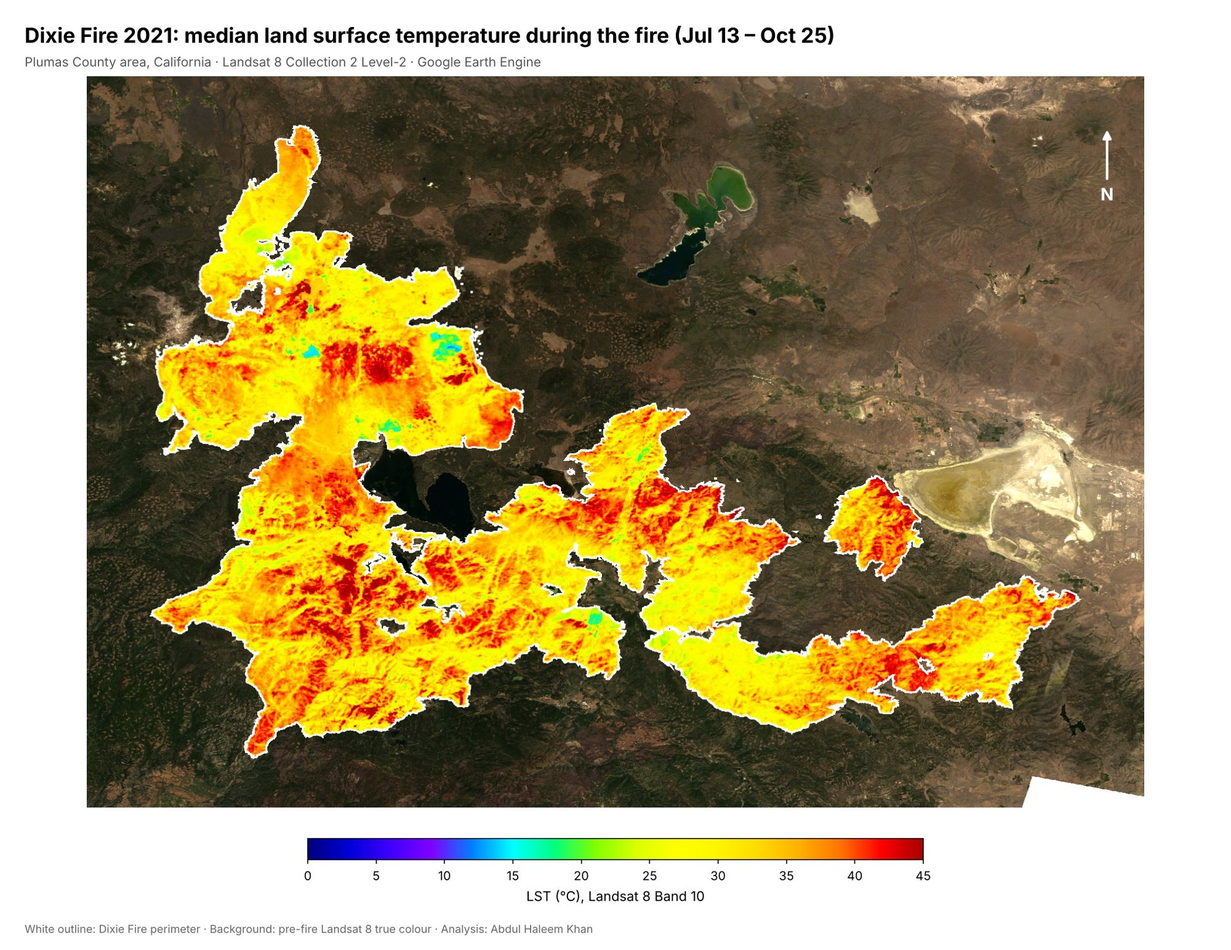
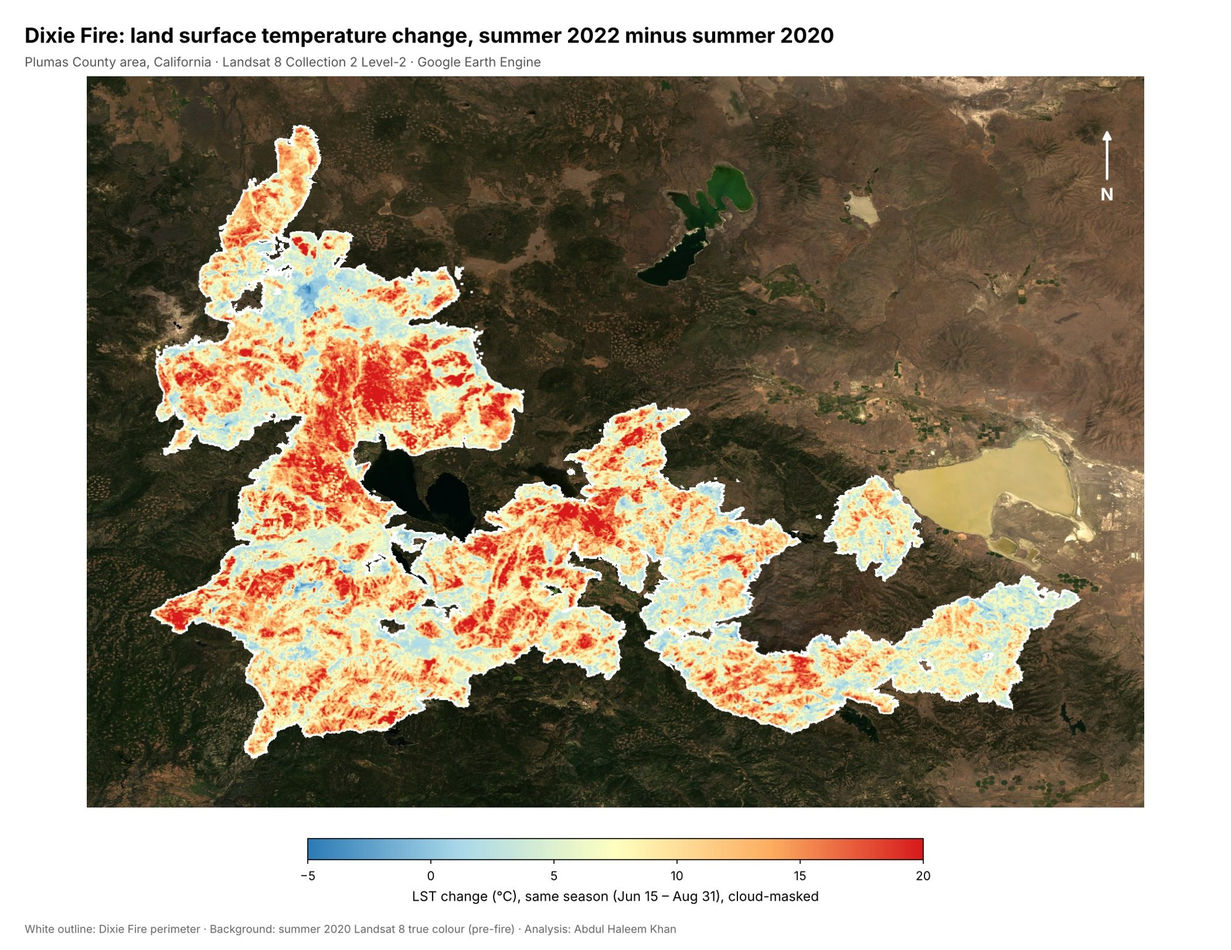
Dixie Fire v2: corrected method, new maps, chart and results
Claude-Session: https://claude.ai/code/session_019ix2VwBFEfSriveM5Esb5E

diff --git a/projects/gee-dixie-fire-lst-ndvi.html b/projects/gee-dixie-fire-lst-ndvi.html
@@ -1,6 +1,6 @@
 <!DOCTYPE html><html lang="en"><head><meta charset="utf-8"><meta name="viewport" content="width=device-width,initial-scale=1">
-<title>Dixie Fire 2021: Land Surface Temperature &amp; NDVI in Google Earth Engine | Abdul Haleem Khan</title><meta name="description" content="Google Earth Engine app that tracks the 2021 Dixie Fire, California&#x27;s largest single wildfire, through Landsat 8 land surface temperature and NDVI before, during and after the fire, with legends, time-series charts and GeoTIFF exports.">
-<meta property="og:title" content="Dixie Fire 2021: Land Surface Temperature &amp; NDVI in Google Earth Engine | Abdul Haleem Khan"><meta property="og:description" content="Google Earth Engine app that tracks the 2021 Dixie Fire, California&#x27;s largest single wildfire, through Landsat 8 land surface temperature and NDVI before, during and after the fire, with legends, time-series charts and GeoTIFF exports."><meta property="og:image" content="https://abdul-haleem-khan-rs-gis.github.io/Geospatial_Portfolio/assets/maps/gee-dixie-fire-lst-ndvi-1.jpg"><meta property="og:type" content="website">
+<title>Dixie Fire 2021: Land Surface Temperature &amp; NDVI in Google Earth Engine | Abdul Haleem Khan</title><meta name="description" content="Google Earth Engine analysis of the 2021 Dixie Fire, California&#x27;s largest single wildfire: cloud-masked Landsat 8 land surface temperature and NDVI, compared season to season against an unburned control ring, showing the burn scar ran about 8 °C hotter the next summer.">
+<meta property="og:title" content="Dixie Fire 2021: Land Surface Temperature &amp; NDVI in Google Earth Engine | Abdul Haleem Khan"><meta property="og:description" content="Google Earth Engine analysis of the 2021 Dixie Fire, California&#x27;s largest single wildfire: cloud-masked Landsat 8 land surface temperature and NDVI, compared season to season against an unburned control ring, showing the burn scar ran about 8 °C hotter the next summer."><meta property="og:image" content="https://abdul-haleem-khan-rs-gis.github.io/Geospatial_Portfolio/assets/maps/gee-dixie-fire-lst-ndvi-1.jpg"><meta property="og:type" content="website">
 <link rel="preconnect" href="https://fonts.googleapis.com"><link rel="preconnect" href="https://fonts.gstatic.com" crossorigin>
 <link href="https://fonts.googleapis.com/css2?family=Fraunces:opsz,wght@9..144,500;9..144,600&family=Inter:wght@400;500;600&family=JetBrains+Mono:wght@400;500&display=swap" rel="stylesheet">
 <link rel="stylesheet" href="../assets/site.css"></head><body>
@@ -9,13 +9,13 @@
 <main class="wrap">
 <div class="crumb"><a href="../index.html#work">← All work</a></div>
 <div class="phero"><span class="mono">Remote Sensing &amp; Earth Observation</span><h1 style="font-size:clamp(32px,4.5vw,52px)">Dixie Fire 2021: Land Surface Temperature &amp; NDVI in Google Earth Engine</h1>
-<p class="lead">Google Earth Engine app that tracks the 2021 Dixie Fire, California&#x27;s largest single wildfire, through Landsat 8 land surface temperature and NDVI before, during and after the fire, with legends, time-series charts and GeoTIFF exports.</p>
+<p class="lead">Google Earth Engine analysis of the 2021 Dixie Fire, California&#x27;s largest single wildfire: cloud-masked Landsat 8 land surface temperature and NDVI, compared season to season against an unburned control ring, showing the burn scar ran about 8 °C hotter the next summer.</p>
 <dl class="facts"><div><dt class="mono">Location</dt><dd>Dixie Fire, Plumas County area, California, USA</dd></div><div><dt class="mono">Year</dt><dd>2021 fire season</dd></div><div><dt class="mono">Client</dt><dd>Independent Earth Engine analysis</dd></div><div><dt class="mono">Tools</dt><dd>Google Earth Engine (JavaScript), Landsat 8 C2 L2, LST, NDVI, Time series</dd></div></dl>
-<figure class="mapfull"><a href="../assets/maps/gee-dixie-fire-lst-ndvi-1.jpg"><img src="../assets/maps/gee-dixie-fire-lst-ndvi-1.jpg" alt="Median land surface temperature inside the Dixie Fire perimeter during the fire (Landsat 8 Band 10)" width="2000" height="1543"></a><figcaption><span class="mono">Fig. 1</span> Median land surface temperature inside the Dixie Fire perimeter during the fire (Landsat 8 Band 10)</figcaption></figure><figure class="mapfull"><a href="../assets/maps/gee-dixie-fire-lst-ndvi-2.jpg"><img src="../assets/maps/gee-dixie-fire-lst-ndvi-2.jpg" alt="Temperature change: during-fire minus pre-fire median LST" width="2000" height="1543"></a><figcaption><span class="mono">Fig. 2</span> Temperature change: during-fire minus pre-fire median LST</figcaption></figure><figure class="mapfull"><a href="../assets/maps/gee-dixie-fire-lst-ndvi-3.jpg"><img src="../assets/maps/gee-dixie-fire-lst-ndvi-3.jpg" alt="Post-fire NDVI inside the perimeter (Oct 25 – Nov 30, 2021)" width="2000" height="1543"></a><figcaption><span class="mono">Fig. 3</span> Post-fire NDVI inside the perimeter (Oct 25 – Nov 30, 2021)</figcaption></figure><figure class="mapfull"><a href="../assets/maps/gee-dixie-fire-lst-ndvi-4.jpg"><img src="../assets/maps/gee-dixie-fire-lst-ndvi-4.jpg" alt="The Earth Engine app: layers, legends and the LST time-series chart in the Code Editor" width="1907" height="867"></a><figcaption><span class="mono">Fig. 4</span> The Earth Engine app: layers, legends and the LST time-series chart in the Code Editor</figcaption></figure></div>
-<div class="pbody"><div><h2>Challenge</h2><p>Measure how a very large wildfire changed the land surface, from heat to vegetation, using only free satellite data. The aim was to run everything in the cloud, over a 3,894 km² burn perimeter, without downloading a single scene.</p>
-<h2>Approach</h2><ol><li>Filtered the Landsat 8 collection to the fire perimeter and the June–November 2021 window</li><li>Converted thermal Band 10 (ST_B10) to land surface temperature in °C with the Collection 2 scale factors (× 0.00341802 + 149.0 − 273.15)</li><li>Calculated NDVI from Band 5 (NIR) and Band 4 (red) for every scene</li><li>Split the collection at the ignition date (13 July) and the containment date (25 October) and took median composites for each period</li><li>Subtracted pre-fire from during-fire LST to map temperature change</li><li>Built the app interface: title, layer list, LST and temperature-difference legends and an information panel</li><li>Charted mean LST and NDVI over the perimeter for every scene, and set up 30 m GeoTIFF exports to Google Drive for each LST layer and the difference map</li></ol>
-<h2>Results</h2><ul class="find"><li>Mean NDVI inside the perimeter fell from 0.24 before the fire to 0.09 after it, a drop of about 63%, showing extensive vegetation loss</li><li>The time-series chart tracks how surface temperature over the burn area changed through the fire season</li><li>Median LST over the perimeter: 35.1 °C before the fire and 33.6 °C during it. Smoke and cloud in the during-fire scenes lower the thermal signal, so much of the difference map shows cooling</li><li>Next step: apply the cloud-mask function (already written in the script) to every scene, and add a smoke filter, to sharpen the temperature-change map</li></ul></div>
-<aside class="side"><p style="margin:0 0 10px"><a class="btn" href="https://code.earthengine.google.com/5fbd35d270e92e2c852970e16b9c2db1">Open in the Earth Engine Code Editor</a></p><p style="margin:0 0 10px"><a class="btn" href="https://github.com/Abdul-Haleem-Khan-RS-GIS/spatial-analysis-showcase/blob/main/01-Remote-Sensing/gee-dixie-fire-lst-ndvi/code/dixie_fire_lst_ndvi.js">View the script on GitHub</a></p><hr><span class="mono">Data used</span><ul class="dl"><li>Landsat 8 Collection 2 Level-2 surface reflectance and surface temperature (LANDSAT/LC08/C02/T1_L2), June–November 2021</li><li>Dixie Fire perimeter uploaded as an Earth Engine asset (3,894 km²)</li><li>Periods: pre-fire Jun 1 – Jul 13 (7 scenes), during-fire Jul 13 – Oct 25 (16 scenes), post-fire Oct 25 – Nov 30, 2021 (6 scenes)</li></ul><hr><span class="mono">Files & data</span><p style="margin:8px 0 0"><a class="btn" href="https://github.com/Abdul-Haleem-Khan-RS-GIS/spatial-analysis-showcase/tree/main/01-Remote-Sensing/gee-dixie-fire-lst-ndvi">Open on GitHub</a></p><ul><li>code/dixie_fire_lst_ndvi.js (full Earth Engine script)</li><li>Four maps (LST, temperature change, NDVI, app view)</li></ul></aside></div>
+<figure class="mapfull"><a href="../assets/maps/gee-dixie-fire-lst-ndvi-1.jpg"><img src="../assets/maps/gee-dixie-fire-lst-ndvi-1.jpg" alt="Land surface temperature change in the same season, summer 2022 minus summer 2020 (cloud-masked)" width="2000" height="1543"></a><figcaption><span class="mono">Fig. 1</span> Land surface temperature change in the same season, summer 2022 minus summer 2020 (cloud-masked)</figcaption></figure><figure class="mapfull"><a href="../assets/maps/gee-dixie-fire-lst-ndvi-2.jpg"><img src="../assets/maps/gee-dixie-fire-lst-ndvi-2.jpg" alt="Summer means inside the burn perimeter vs the unburned 5 km ring, 2019, 2020 and 2022" width="2000" height="886"></a><figcaption><span class="mono">Fig. 2</span> Summer means inside the burn perimeter vs the unburned 5 km ring, 2019, 2020 and 2022</figcaption></figure><figure class="mapfull"><a href="../assets/maps/gee-dixie-fire-lst-ndvi-3.jpg"><img src="../assets/maps/gee-dixie-fire-lst-ndvi-3.jpg" alt="Vegetation change (NDVI), summer 2022 minus summer 2020" width="2000" height="1543"></a><figcaption><span class="mono">Fig. 3</span> Vegetation change (NDVI), summer 2022 minus summer 2020</figcaption></figure><figure class="mapfull"><a href="../assets/maps/gee-dixie-fire-lst-ndvi-4.jpg"><img src="../assets/maps/gee-dixie-fire-lst-ndvi-4.jpg" alt="Land surface temperature in the first summer after the fire (2022)" width="2000" height="1543"></a><figcaption><span class="mono">Fig. 4</span> Land surface temperature in the first summer after the fire (2022)</figcaption></figure></div>
+<div class="pbody"><div><h2>Challenge</h2><p>Measure how a very large wildfire changed the land surface, from heat to vegetation, using only free satellite data processed in the cloud over the 3,894 km² burn perimeter. The first version compared June (before the fire) with July–October (during it). Because of the seasonal cooling and smoke, it wrongly suggested the burned area had cooled, so the method had to be fixed.</p>
+<h2>Approach</h2><ol><li>Applied a QA_PIXEL mask to every Landsat scene to remove cloud, dilated cloud, cirrus, cloud shadow and snow</li><li>Converted thermal Band 10 to land surface temperature in °C with the Collection 2 scale factors, and calculated NDVI from Bands 5 and 4</li><li>Kept the 2021 fire-season layers (pre-, during- and post-fire median LST, post-fire NDVI)</li><li>Measured fire impact season to season: median summer 2022 minus median summer 2020, for both LST and NDVI, so normal seasonal cooling no longer hides the signal</li><li>Used a 5 km unburned ring around the perimeter as a control, to separate the fire effect from year-to-year weather</li><li>Printed burn-scar vs control-ring statistics, charted both regions from June 2020 to September 2022, and set up 30 m GeoTIFF exports for all change layers</li></ol>
+<h2>Results</h2><ul class="find"><li>Summer land surface temperature inside the perimeter rose from 34.2 °C (2020) to 43.9 °C (2022), +9.7 °C, while the unburned ring rose only 1.7 °C</li><li>Before the fire, the forest was 1.4–2.1 °C cooler than its surroundings (2019 and 2020). After the fire, it was 5.8 °C hotter: a swing of about 8 °C caused by the burn</li><li>Summer NDVI inside the perimeter fell from 0.24 to 0.13 (about −46%), while the control ring stayed at 0.21: vegetation loss limited to the burn scar</li><li>Lesson learned: comparing different seasons, without cloud masking, gave a false cooling signal. Season-to-season comparison with a control area gave a clear, defensible result</li></ul></div>
+<aside class="side"><p style="margin:0 0 10px"><a class="btn" href="https://code.earthengine.google.com/41b9b32b5c8690a4727865efe43eb71a">Open in the Earth Engine Code Editor</a></p><p style="margin:0 0 10px"><a class="btn" href="https://github.com/Abdul-Haleem-Khan-RS-GIS/spatial-analysis-showcase/blob/main/01-Remote-Sensing/gee-dixie-fire-lst-ndvi/code/dixie_fire_lst_ndvi.js">View the script on GitHub</a></p><hr><span class="mono">Data used</span><ul class="dl"><li>Landsat 8 Collection 2 Level-2 surface reflectance and surface temperature (LANDSAT/LC08/C02/T1_L2), 2019–2022</li><li>Dixie Fire perimeter uploaded as an Earth Engine asset (3,894 km²)</li><li>Unburned control ring: a 5 km band around the perimeter</li><li>2021 fire season: ignition 13 July, containment 25 October; impact comparison: summer (Jun 15 – Aug 31) 2020 vs 2022</li></ul><hr><span class="mono">Files & data</span><p style="margin:8px 0 0"><a class="btn" href="https://github.com/Abdul-Haleem-Khan-RS-GIS/spatial-analysis-showcase/tree/main/01-Remote-Sensing/gee-dixie-fire-lst-ndvi">Open on GitHub</a></p><ul><li>code/dixie_fire_lst_ndvi.js (full Earth Engine script)</li><li>Maps: LST change, NDVI change, summer 2022 LST; summer comparison chart</li></ul></aside></div>
 <div class="next"><a href="../index.html#work">← All work</a><a href="lulc-andijan-reservoir.html">Next: Land-Cover Classification: Supervised vs Unsupervised →</a></div>
 </main><footer><div class="wrap"><span>© 2026 Abdul Haleem Khan · GIS Engineer & Remote Sensing Specialist</span>
 <span><a href="https://www.linkedin.com/in/abdul-haleem-khan-rs-gis-specialist">LinkedIn</a> · <a href="https://github.com/Abdul-Haleem-Khan-RS-GIS">GitHub</a> · <a href="https://www.upwork.com/freelancers/abdulhaleemrsgis">Upwork</a> · <a href="mailto:abdulhaleemk03@gmail.com">Email</a></span></div></footer></body></html>
